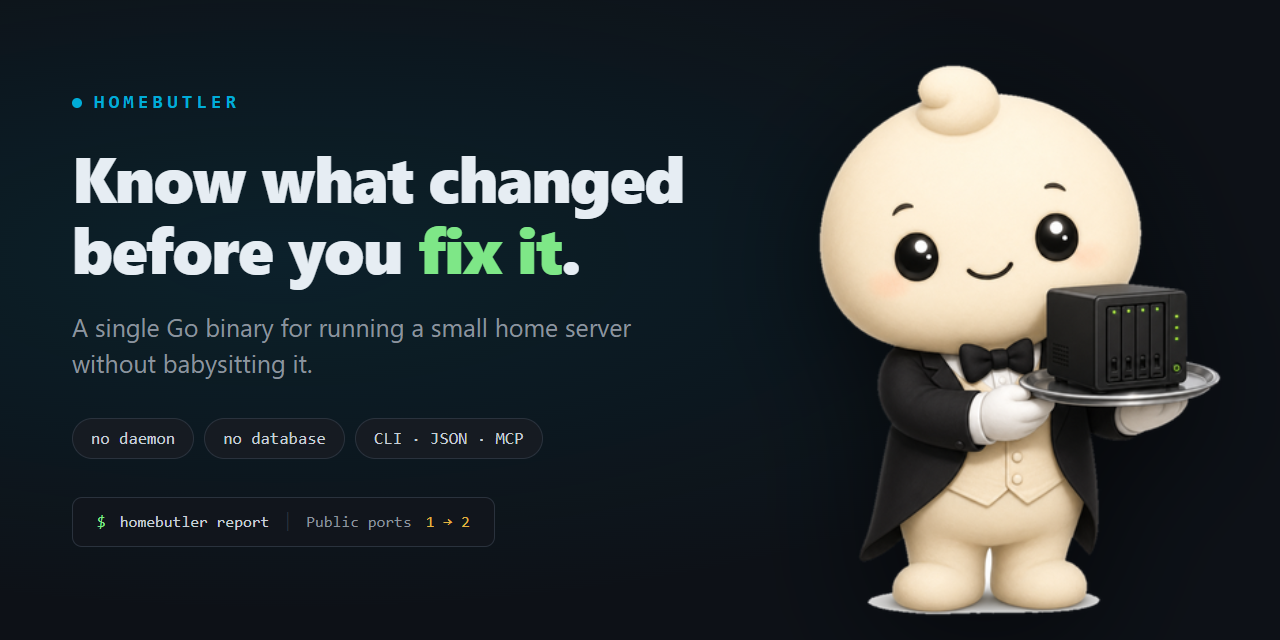
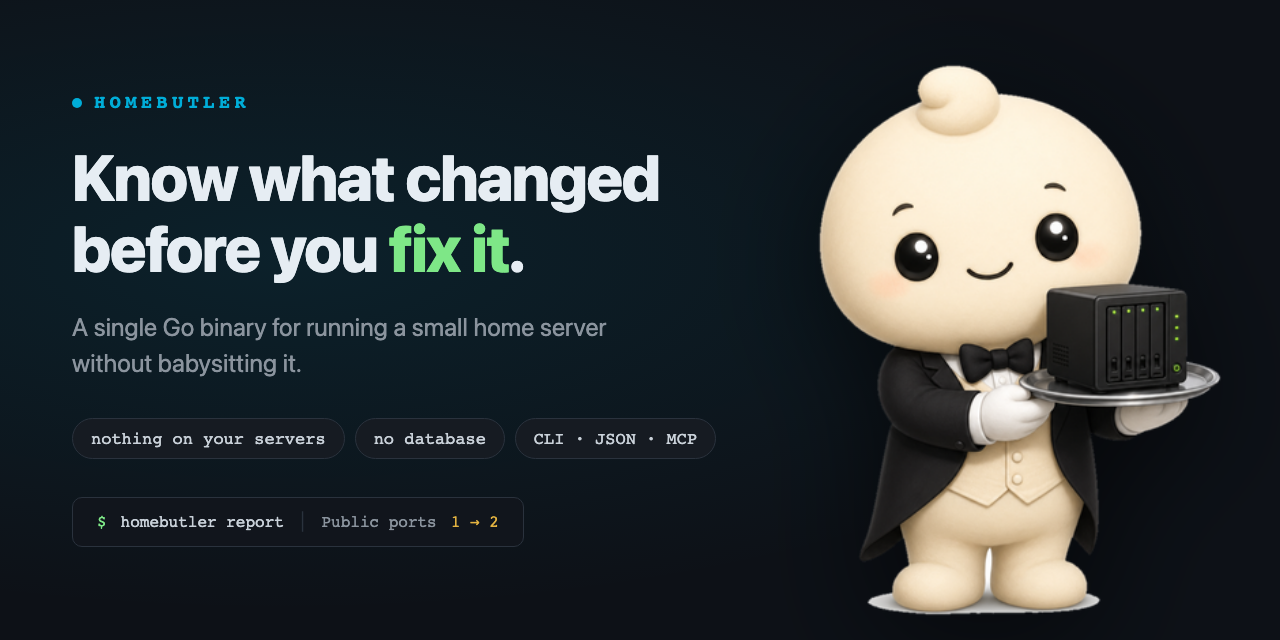
docs: "no daemon" was not true, and the skill said it to agents (#262)
* docs: "no daemon" was not true, and the skill said it to agents

watch install writes a systemd user unit or a launchd agent and starts it, so
something does keep running. The distinction the code draws — that homebutler
does not daemonise itself, it hands the loop to the host's supervisor — is not
the distinction a reader makes.

The claim that holds is the one the README already makes, and it is the one
that separates this from the tools that put an agent on every host: nothing
runs on the machines homebutler watches. The skill says that now, and its
watch section says which part stays running and where.

The social preview card carried the same word. Re-rendered from the fixed
HTML, because a card that disagrees with its source is the drift this file
keeps finding.

* docs: CLAUDE.md said no daemon too

Same claim as the skill and the repository description. watch install writes a
systemd user unit or a launchd agent, so what is true is that nothing runs on
the machines homebutler watches.

Changed on the owner's instruction, not on the strength of the issue.

diff --git a/assets/social-preview.html b/assets/social-preview.html
@@ -79,7 +79,7 @@
     <h1>Know what changed<br>before you <em>fix it</em>.</h1>
     <p class="sub">A single Go binary for running a small home server without babysitting it.</p>
     <div class="chips">
-      <div class="chip">no daemon</div>
+      <div class="chip">nothing on your servers</div>
       <div class="chip">no database</div>
       <div class="chip">CLI · JSON · MCP</div>
     </div>

diff --git a/CHANGELOG.md b/CHANGELOG.md
@@ -48,6 +48,8 @@ $ homebutler doctor
 
 ### 📚 Documentation
 
+- "no daemon" was not true, and the skill said it to agents (#260). `watch install` writes a systemd user unit or a launchd agent and starts it, so something does keep running — on the machine the operator installed it on. The claim that holds is the one the README already makes and the one that separates this from the tools that put an agent on every host: **nothing runs on the machines homebutler watches.** `skills/SKILL.md` says that now instead, and its `watch` section says plainly which part stays running and where. The social preview card carried the same word and now names the true claim
+
 - the README offered `npx -y homebutler@latest` as a way to run homebutler without installing it, and that is not what it runs (#246). The npm package publishes one command, `homebutler-mcp`, which starts the MCP server — the section already said "npm (MCP server)" and the line under it read like a way to try the CLI. It now says what it launches
 
 - the list of what the contract mechanism does not check gains the one it could never have caught about itself (#253). `-update` records the surface as it is, not as it should be, so a defect present when somebody regenerates becomes the golden and every later run defends it. The same shape turned up outside the repository on the same day: two copies of a screenshot were byte-identical, the comparison passed, and both showed a `doctor` state the product cannot produce. The rule the list keeps is that every entry is an accident that happened, with what it got past — a list of hypotheticals would be longer and nobody would read it

diff --git a/skills/SKILL.md b/skills/SKILL.md
@@ -15,8 +15,8 @@ metadata:
 
 [homebutler](https://github.com/Higangssh/homebutler) remembers what a server
 looked like last time and reports only the changes worth mentioning. One Go
-binary: no daemon, no database, no agent on the machines it watches — the
-binary is deployed there once and runs only when asked, over SSH.
+binary: no database, and no agent on the machines it watches — the binary is
+deployed there once and runs only when asked, over SSH.
 
 > This file is published to ClawHub as `@higangssh/homebutler`. The copy that
 > matters lives in the repository at `skills/SKILL.md`, and a test in `cmd/`
@@ -183,7 +183,11 @@ homebutler watch tui
 ```
 
 `watch` is a restart tracker: it records incidents, captures the logs from the
-moment a container went down, and notifies. It is not a live dashboard — that is
+moment a container went down, and notifies. `watch install` hands that loop to
+the machine's own supervisor — a systemd user unit or a launchd agent — so it
+keeps running after logout. That is the one part of homebutler that stays
+running, and it runs where the operator installed it, not on the machines it
+watches. It is not a live dashboard — that is
 `watch tui`, and it is for a person rather than an agent.
 
 ### `serve` edits, with a token

diff --git a/CLAUDE.md b/CLAUDE.md
@@ -1,7 +1,7 @@
 # homebutler
 
 A single Go binary for running a small home server: CLI, TUI, web dashboard, and
-an MCP server, with no daemon and no database.
+an MCP server, with no database and nothing running on the machines it watches.
 
 ## Verify before claiming anything works
 
